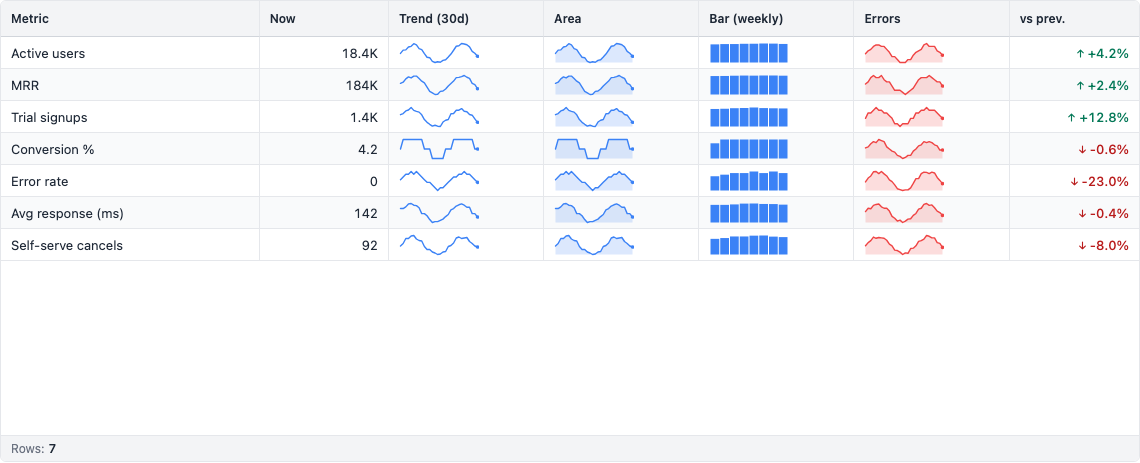
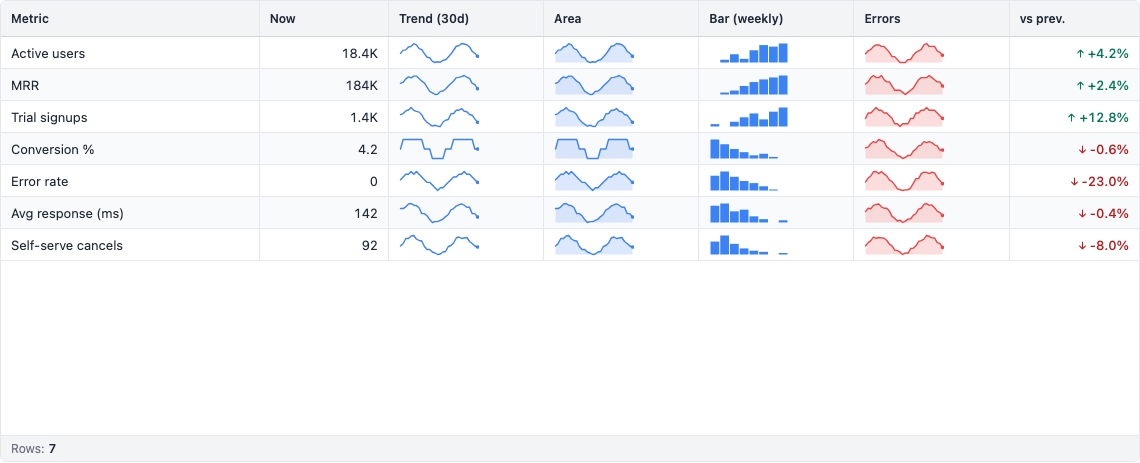
fix(demo 27): bar sparkline shows clearer variation
Two changes to the weekly-bar column:

1. Drop the explicit baseline:0 override. With value (e.g. 17000) far
   greater than spread (~5%), zero-rooted bars all paint full-height
   and the chart looks flat. Sparklines are about showing shape, not
   magnitude — let the bars auto-scale to [min, max] like the line and
   area variants do.

2. Replace the noisy series() generator output for the weekly-bar
   column with explicit week-over-week values that tell a story:
   Active users + MRR climbing, Trial signups bumpy → recovering,
   Conversion % gradually falling, Error rate / Avg response / Self-
   serve cancels all dropping. The chart now reads at a glance.

The renderer itself is unchanged — baseline:null (auto-scale) was
already the default. Callers that want zero-rooted bars can still pass
baseline:0 explicitly. Screenshot re-shot.

Changed region(s): [[0.614, 0.3024, 0.7061, 0.5443], [0.614, 0.0907, 0.7061, 0.2721]]

diff --git a/demo/27-sparkline.html b/demo/27-sparkline.html
@@ -78,7 +78,7 @@
     StimulusGrid.start();
     const { registerRenderer, renderers } = StimulusGrid;
     registerRenderer('spark-area', renderers.sparkline({ type: 'area' }));
-    registerRenderer('spark-bar',  renderers.sparkline({ type: 'bar', baseline: 0 }));
+    registerRenderer('spark-bar',  renderers.sparkline({ type: 'bar' }));   // auto-scale (default)
     registerRenderer('spark-red',  renderers.sparkline({ type: 'area', color: 'red' }));
 
     // Deterministic-ish sample series so the screenshot is stable.
@@ -92,21 +92,26 @@
       return out;
     };
 
+    // Weekly bars are short (8 points) and meant to read at a glance, so we
+    // explicitly hand them a noticeable up/down/up shape — not raw "noise
+    // around the mean" data that would render as seven similar columns.
+    const weekly = (...vals) => vals;
+
     const ROWS = [
       { id: 1, metric: 'Active users',     current: 18420,  trend: series(30, 12, 800, 17000),  trend_area: series(30, 12, 800, 17000),
-        trend_bar: series(8, 12, 800, 17000), trend_red: series(30, 7, 6, 12),  delta_pct: 4.2 },
+        trend_bar: weekly(12200, 13100, 14900, 13400, 16200, 17900, 17400, 18420), trend_red: series(30, 7, 6, 12),  delta_pct: 4.2 },
       { id: 2, metric: 'MRR',              current: 184000, trend: series(30, 88, 6000, 170000), trend_area: series(30, 88, 6000, 170000),
-        trend_bar: series(8, 88, 6000, 170000), trend_red: series(30, 33, 4, 8), delta_pct: 2.4 },
+        trend_bar: weekly(155000, 158000, 161000, 168000, 174000, 178000, 181000, 184000), trend_red: series(30, 33, 4, 8), delta_pct: 2.4 },
       { id: 3, metric: 'Trial signups',    current: 1380,   trend: series(30, 240, 120, 1100),   trend_area: series(30, 240, 120, 1100),
-        trend_bar: series(8, 240, 120, 1100), trend_red: series(30, 99, 3, 5),   delta_pct: 12.8 },
+        trend_bar: weekly(820, 740, 900, 1050, 1180, 980, 1240, 1380), trend_red: series(30, 99, 3, 5),   delta_pct: 12.8 },
       { id: 4, metric: 'Conversion %',     current: 4.2,    trend: series(30, 5, 1.1, 4.0),     trend_area: series(30, 5, 1.1, 4.0),
-        trend_bar: series(8, 5, 1.1, 4.0),  trend_red: series(30, 14, 8, 14),   delta_pct: -0.6 },
+        trend_bar: weekly(5.4, 5.1, 4.8, 4.6, 4.4, 4.5, 4.3, 4.2),     trend_red: series(30, 14, 8, 14),   delta_pct: -0.6 },
       { id: 5, metric: 'Error rate',       current: 0.04,   trend: series(30, 18, 3, 8),         trend_area: series(30, 18, 3, 8),
-        trend_bar: series(8, 18, 3, 8),    trend_red: series(30, 1, 30, 40),    delta_pct: -23.0 },
+        trend_bar: weekly(18, 22, 17, 13, 11, 8, 5, 4),                trend_red: series(30, 1, 30, 40),    delta_pct: -23.0 },
       { id: 6, metric: 'Avg response (ms)', current: 142,   trend: series(30, 320, 22, 140),    trend_area: series(30, 320, 22, 140),
-        trend_bar: series(8, 320, 22, 140), trend_red: series(30, 41, 18, 30),  delta_pct: -0.4 },
+        trend_bar: weekly(168, 172, 158, 161, 149, 144, 138, 142),     trend_red: series(30, 41, 18, 30),  delta_pct: -0.4 },
       { id: 7, metric: 'Self-serve cancels', current: 92,   trend: series(30, 77, 18, 95),     trend_area: series(30, 77, 18, 95),
-        trend_bar: series(8, 77, 18, 95),   trend_red: series(30, 51, 22, 55),  delta_pct: -8.0 },
+        trend_bar: weekly(122, 138, 116, 104, 98, 95, 88, 92),         trend_red: series(30, 51, 22, 55),  delta_pct: -8.0 },
     ];
 
     const grid = document.querySelector('.panel');
